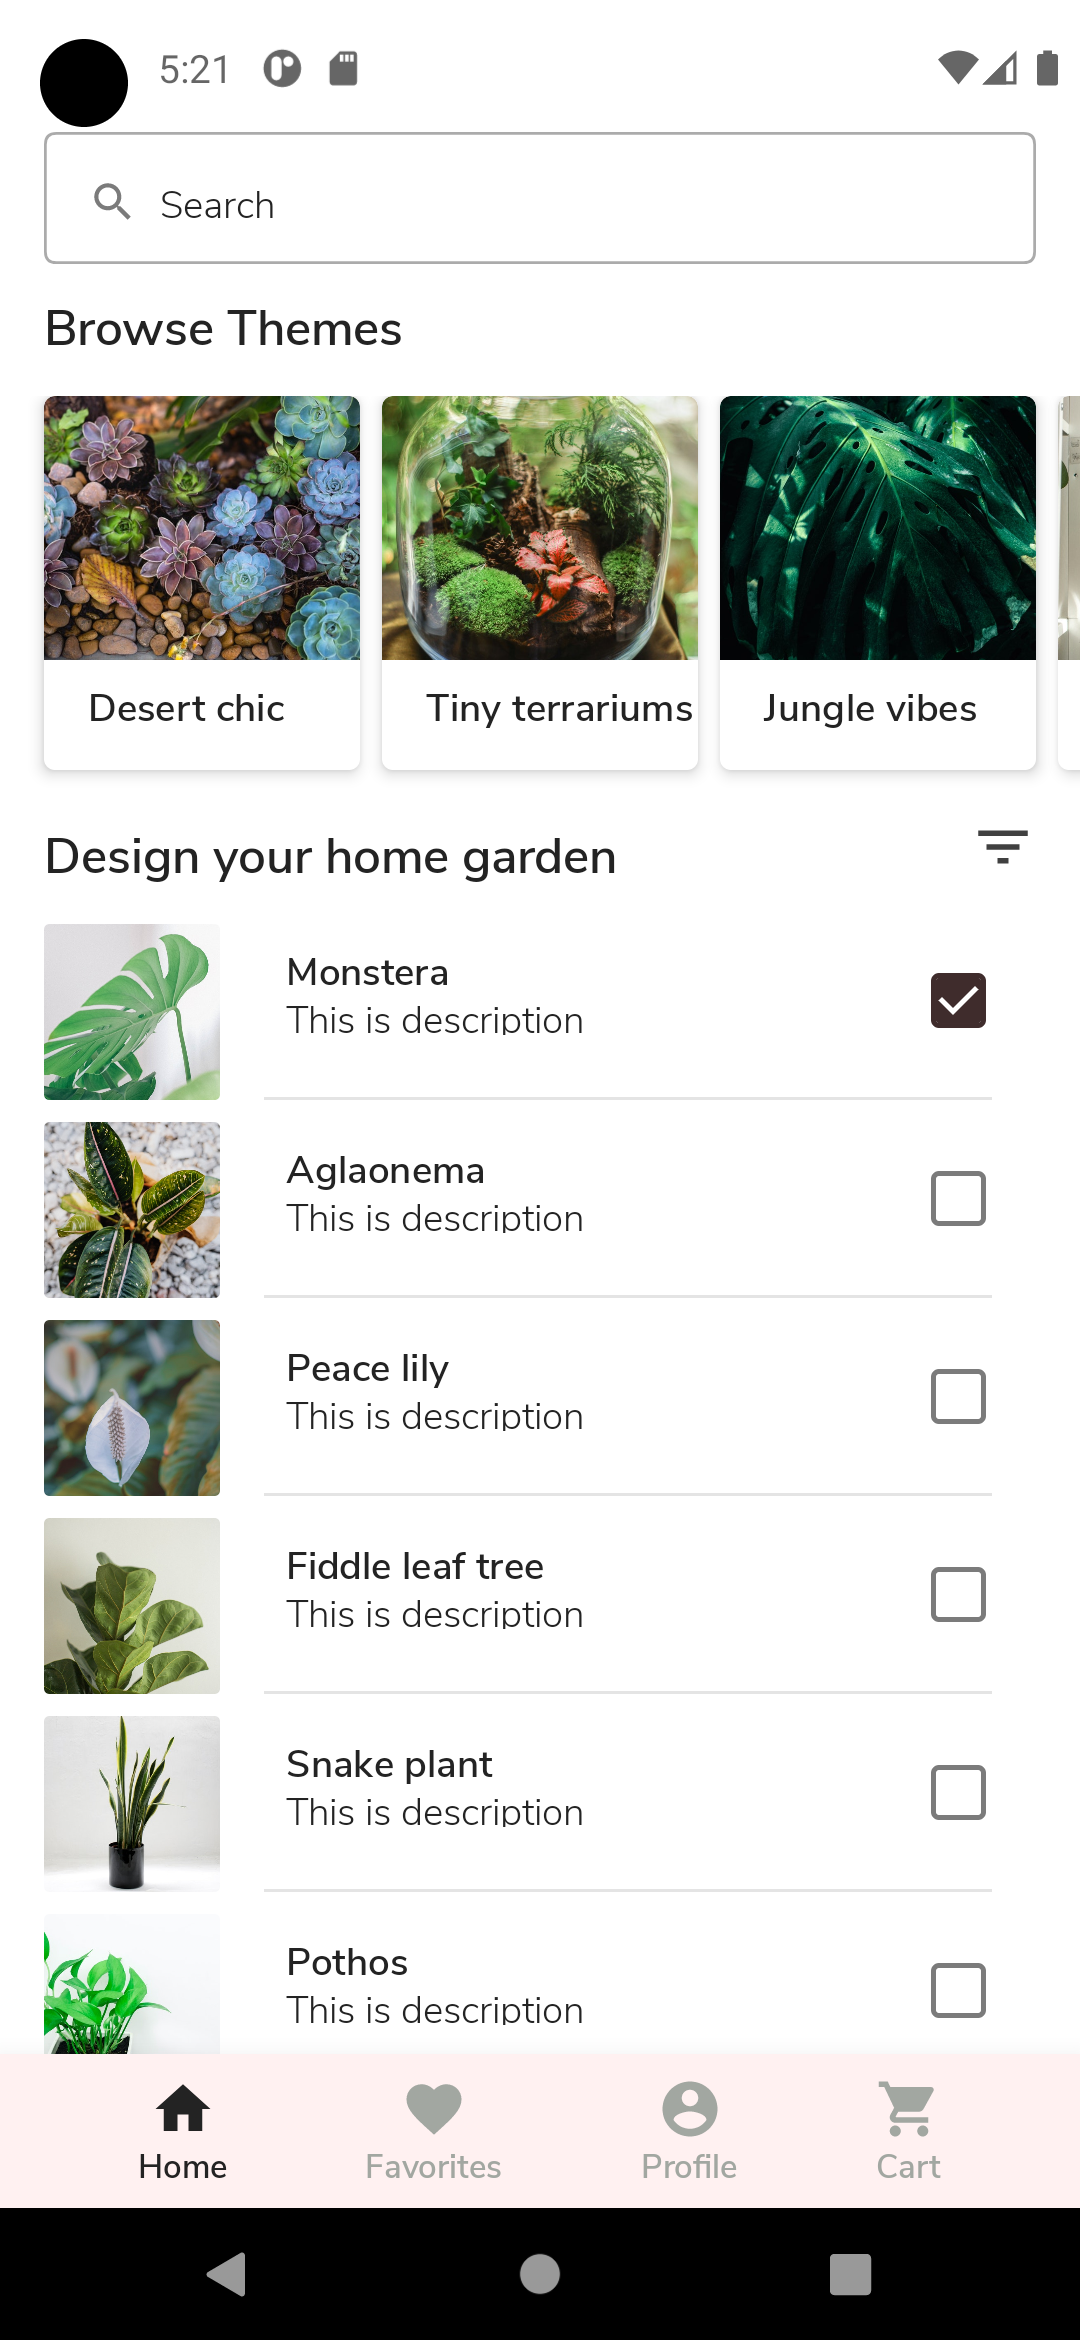
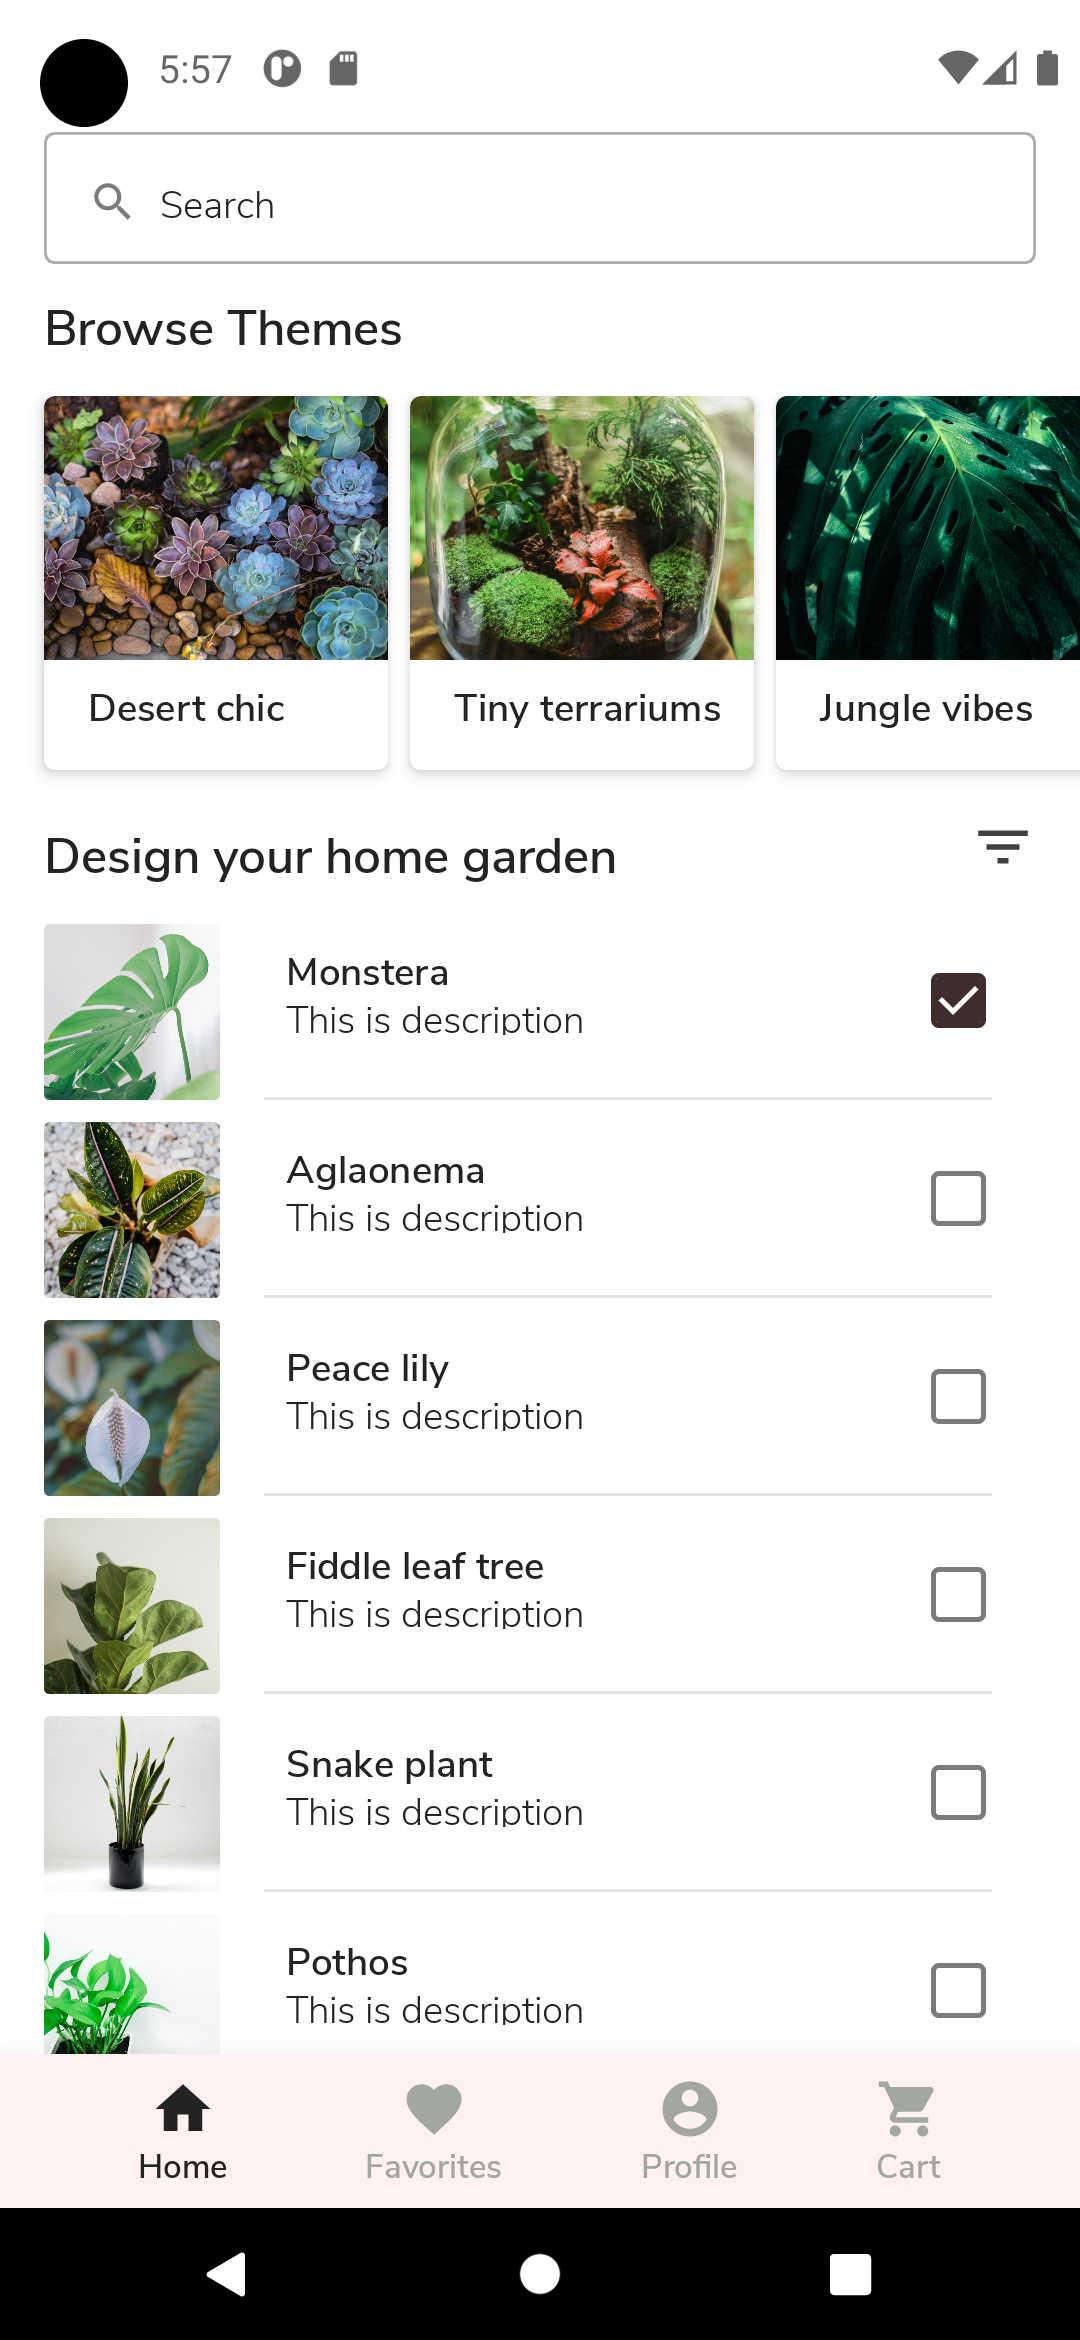
modified width of browse themes's image

diff --git a/app/src/main/java/com/example/androiddevchallenge/Home.kt b/app/src/main/java/com/example/androiddevchallenge/Home.kt
@@ -273,7 +273,8 @@ fun DesignYourHomeGardenContent(designYourHomeGarden: DesignYourHomeGarden, dark
                         .constrainAs(divider) {
                             bottom.linkTo(parent.bottom)
                             start.linkTo(parent.start)
-                        }
+                        },
+
                 )
             }
         }
@@ -296,7 +297,7 @@ fun BrowseThemesContent(browseTheme: BrowseTheme, darkMode: Boolean) {
                     painter = painterResource(id = browseTheme.resId),
                     contentDescription = null,
                     modifier = Modifier
-                        .size(width = 115.dp, height = 96.dp)
+                        .size(width = 125.dp, height = 96.dp)
                         .clip(
                             RoundedCornerShape(topStart = 4.dp, topEnd = 4.dp)
                         ),
